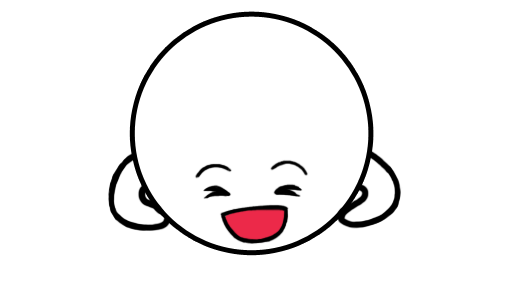
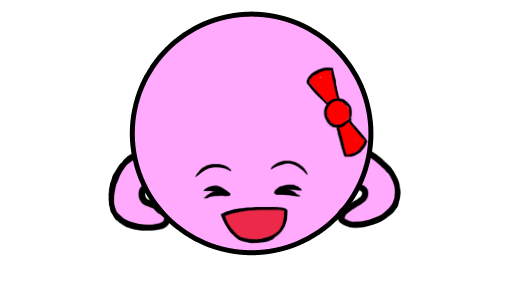
Situation-driven stone faces + pink guide mascot, v1.10.0
- Stone expressions now read the position instead of a random personality:
  atari->panic (big group->pale), just-captured->smug (big->laugh),
  threatening an enemy in atari->mischievous, a friend captured diagonally
  ->angry, beside a ko->pouty, 2/3 liberties->worried/uneasy, strong/large
  group->content, star point->special card; only a plain settled stone gets
  a stable calm face. All 18 expressions still reachable.
- Guide mascot switched from the white set to the pink (m) 碁石さん, with a
  ?v= cache-bust on the reused idle/happy/think/oops filenames.

Changed region(s): [[0.2188, 0.0304, 0.7812, 0.8514]]

diff --git a/ui.js b/ui.js
@@ -7,7 +7,7 @@
   'use strict';
   var E = window.GoEngine, LESSONS = window.GoLessons;
   var BLACK = E.BLACK, WHITE = E.WHITE, EMPTY = E.EMPTY;
-  var VERSION = '1.9.0';
+  var VERSION = '1.10.0';
   // KataGo dan net (b18c384nbt, ~93MB) served same-origin from R2 via functions/models/.
   var NEURAL_MODEL = 'models/kata1-b18c384nbt-s9996604416-d4316597426.bin.gz';
 
@@ -90,9 +90,9 @@
   var svg, layerGrid, layerMark, layerStone, layerOver;
   var SVGNS = 'http://www.w3.org/2000/svg';
   var PAD = 1, R = 0.46;
-  // 碁石さん faces (1..18) with no specific board trigger — assigned as a stable
-  // per-stone "personality" so the whole expression set gets used on the board.
-  var AMBIENT_FACES = [1, 3, 4, 5, 6, 7, 10, 11, 14, 17, 18];
+  // genuinely-calm 碁石さん faces — the only non-situational pick, for a plain
+  // settled stone (kept stable per position so a stone's resting face doesn't flicker).
+  var CALM_FACES = [11, 3, 17, 18];
 
   // mascot guide: the licensed 碁石さん art will be dropped into #mascot later
   // (pending the creator's OK). For now only the speech line (#mascotMsg) is used;
@@ -155,18 +155,23 @@
       });
     }
 
-    // mascot stones: precompute each group's liberty count (for the danger faces)
-    // and the star-point set (those stones get the special 碁石さん card, face 12)
-    var libOf = null, starSet = null;
+    // mascot stones: precompute group liberties + sizes, the star-point set, and
+    // what the last move just captured — so each stone can pick a fitting expression.
+    var libOf = null, sizeOf = null, starSet = null, capSet = null, capColor = 0;
     if (S.stoneStyle === 'mascot') {
-      libOf = {};
+      libOf = {}; sizeOf = {};
       for (var gi = 0; gi < g.board.length; gi++) {
         if (g.board[gi] === EMPTY || libOf[gi] !== undefined) continue;
-        var grp = E.group(g, gi), lc = grp.liberties.length, s;
-        for (s = 0; s < grp.stones.length; s++) libOf[grp.stones[s]] = lc;
+        var grp = E.group(g, gi), lc = grp.liberties.length, sz = grp.stones.length, s;
+        for (s = 0; s < sz; s++) { libOf[grp.stones[s]] = lc; sizeOf[grp.stones[s]] = sz; }
       }
       starSet = {};
       starPoints(n).forEach(function (p) { starSet[p[1] * n + p[0]] = 1; });
+      capSet = {};
+      if (g.lastMove && g.lastMove.captured) {
+        g.lastMove.captured.forEach(function (ci) { capSet[ci] = 1; });
+        capColor = g.lastMove.color; // the side that made the capture
+      }
     }
 
     // stones
@@ -179,16 +184,40 @@
       if (justPlaced) cls += ' just-placed';
       if (S.scoring && S.dead && S.dead.has(i)) cls += ' dead';
       if (S.stoneStyle === 'mascot') {
-        // every 碁石さん face (1..18) is used: key board states pick a matching
-        // expression; everything else gets a stable per-stone "personality".
+        // pick a 碁石さん expression from the situation around this stone
+        var nbrs = E.neighbors(g, i), enemy = v === BLACK ? WHITE : BLACK;
+        var attacks = false, koNext = false, k;
+        for (k = 0; k < nbrs.length; k++) {
+          var nb = nbrs[k];
+          if (g.board[nb] === enemy && libOf[nb] === 1) attacks = true;  // we threaten an enemy group with capture
+          if (g.ko >= 0 && nb === g.ko) koNext = true;                   // sitting beside the ko point
+        }
+        // a friendly stone just captured diagonally next to us (an orthogonal neighbour
+        // of a captured point shares its group, so it'd be gone too) -> anger
+        var friendLost = false;
+        if (capColor === enemy) {
+          var dd = [[-1, -1], [-1, 1], [1, -1], [1, 1]];
+          for (k = 0; k < 4; k++) {
+            var dx2 = x + dd[k][0], dy2 = y + dd[k][1];
+            if (dx2 >= 0 && dy2 >= 0 && dx2 < n && dy2 < n && capSet[dy2 * n + dx2]) { friendLost = true; break; }
+          }
+        }
+        var capN = (justPlaced && g.lastMove.captured) ? g.lastMove.captured.length : 0;
+        var hash = (i * 2654435761 >>> 0);
         var fn;
-        if (S.scoring && S.dead && S.dead.has(i)) fn = 16;          // marked dead -> sleeping
-        else if (libOf[i] === 1) fn = 15;                          // atari -> panic
-        else if (justPlaced) fn = (g.lastMove.captured && g.lastMove.captured.length) ? 2 : 13; // captured -> smug, else laughing
-        else if (libOf[i] === 2) fn = 8;                          // 2 liberties -> worried
-        else if (libOf[i] === 3) fn = 9;                          // 3 liberties, getting hemmed in -> uneasy
-        else if (starSet[i]) fn = 12;                             // star point -> the special card
-        else fn = AMBIENT_FACES[(i * 2654435761 >>> 0) % AMBIENT_FACES.length]; // stable personality
+        if (S.scoring && S.dead && S.dead.has(i)) fn = 16;       // marked dead -> sleeping
+        else if (libOf[i] === 1) fn = sizeOf[i] >= 4 ? 4 : 15;  // atari: big group doomed -> pale shock, else panic
+        else if (capN >= 3) fn = 14;                            // just captured a big group -> big laugh
+        else if (capN >= 1) fn = 2;                             // just captured -> smug
+        else if (friendLost) fn = (hash & 1) ? 1 : 5;          // a friend was just captured beside us -> angry
+        else if (libOf[i] === 2) fn = 8;                        // 2 liberties -> worried
+        else if (justPlaced) fn = attacks ? 10 : 13;           // just placed: sneaky if it threatens, else happy
+        else if (attacks) fn = 10;                             // threatening an enemy group -> mischievous
+        else if (koNext) fn = 6;                               // beside the ko point -> pouty
+        else if (libOf[i] === 3) fn = 9;                       // getting hemmed in -> uneasy
+        else if (libOf[i] >= 6 || sizeOf[i] >= 5) fn = 7;      // strong / large group -> content
+        else if (starSet[i]) fn = 12;                          // star point -> the special card
+        else fn = CALM_FACES[hash % CALM_FACES.length];        // plain settled stone -> calm
         layerStone.appendChild(el('image', {
           x: px(x) - R, y: px(y) - R, width: 2 * R, height: 2 * R,
           href: 'assets/mascot/stone-' + (v === BLACK ? 'black' : 'white') + '-' + fn + '.png',

diff --git a/styles.css b/styles.css
@@ -159,13 +159,14 @@ footer a { color: var(--accent); text-decoration: none; }
 .score-hint { font-size: 13.5px; color: var(--ink-soft); margin: 0 0 8px; }
 #scoreControls { margin-top: 14px; }
 
-/* mascot guide — licensed 碁石さん art by とろろ (https://tororoigo.web.fc2.com/), used with permission */
+/* mascot guide — pink 碁石さん art by とろろ (https://tororoigo.web.fc2.com/), used with permission.
+   ?v= cache-busts when the guide art changes (these filenames are reused); bump with VERSION. */
 .mascot-row { display: flex; align-items: center; gap: 10px; margin-bottom: 14px; }
 .mascot { width: 62px; height: 46px; flex: none; background: center/contain no-repeat; }
-.mascot[data-state="idle"]  { background-image: url(assets/mascot/idle.png); }
-.mascot[data-state="happy"] { background-image: url(assets/mascot/happy.png); }
-.mascot[data-state="think"] { background-image: url(assets/mascot/think.png); }
-.mascot[data-state="oops"]  { background-image: url(assets/mascot/oops.png); }
+.mascot[data-state="idle"]  { background-image: url(assets/mascot/idle.png?v=1.10.0); }
+.mascot[data-state="happy"] { background-image: url(assets/mascot/happy.png?v=1.10.0); }
+.mascot[data-state="think"] { background-image: url(assets/mascot/think.png?v=1.10.0); }
+.mascot[data-state="oops"]  { background-image: url(assets/mascot/oops.png?v=1.10.0); }
 .mascot-msg { font-size: 13.5px; color: var(--ink); margin: 0; min-height: 18px; font-weight: 500; }
 
 @media (prefers-reduced-motion: reduce) {

diff --git a/index.html b/index.html
@@ -8,7 +8,7 @@
   <meta name="color-scheme" content="light dark">
   <meta name="description" content="เรียนและเล่นโกะ (หมากล้อม / 围棋 / Go) ในเบราว์เซอร์ พร้อมโหมดสอนเล่นทีละขั้น">
   <title>围棋 · Go · หมากล้อม — เรียนและเล่น</title>
-  <link rel="stylesheet" href="styles.css?v=1.9.0">
+  <link rel="stylesheet" href="styles.css?v=1.10.0">
 </head>
 <body>
   <div class="wrap">
@@ -149,8 +149,8 @@
   </div>
 
   <!-- ?v= cache-busts on each release; bump together with VERSION in ui.js / worker.js -->
-  <script src="engine.js?v=1.9.0"></script>
-  <script src="lessons.js?v=1.9.0"></script>
-  <script src="ui.js?v=1.9.0"></script>
+  <script src="engine.js?v=1.10.0"></script>
+  <script src="lessons.js?v=1.10.0"></script>
+  <script src="ui.js?v=1.10.0"></script>
 </body>
 </html>

diff --git a/worker.js b/worker.js
@@ -7,7 +7,7 @@
  *   (KataGo WASM) only if real dan-level strength is ever required.
  */
 /* global GoEngine, importScripts, postMessage, onmessage */
-importScripts('engine.js?v=1.9.0'); // keep in sync with VERSION (cache-bust)
+importScripts('engine.js?v=1.10.0'); // keep in sync with VERSION (cache-bust)
 var E = GoEngine, EMPTY = E.EMPTY;
 
 function isEye(g, i, color) {
